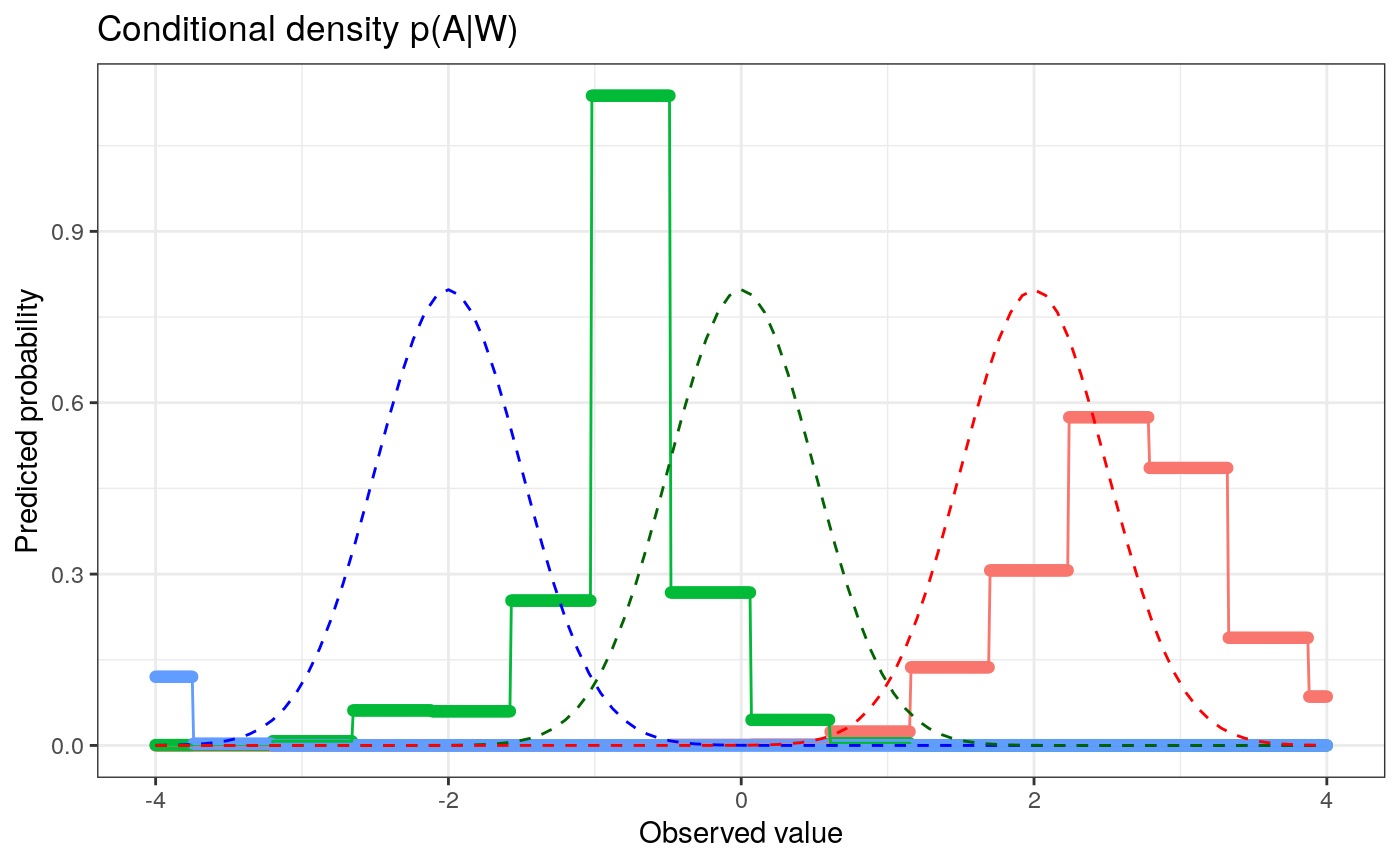
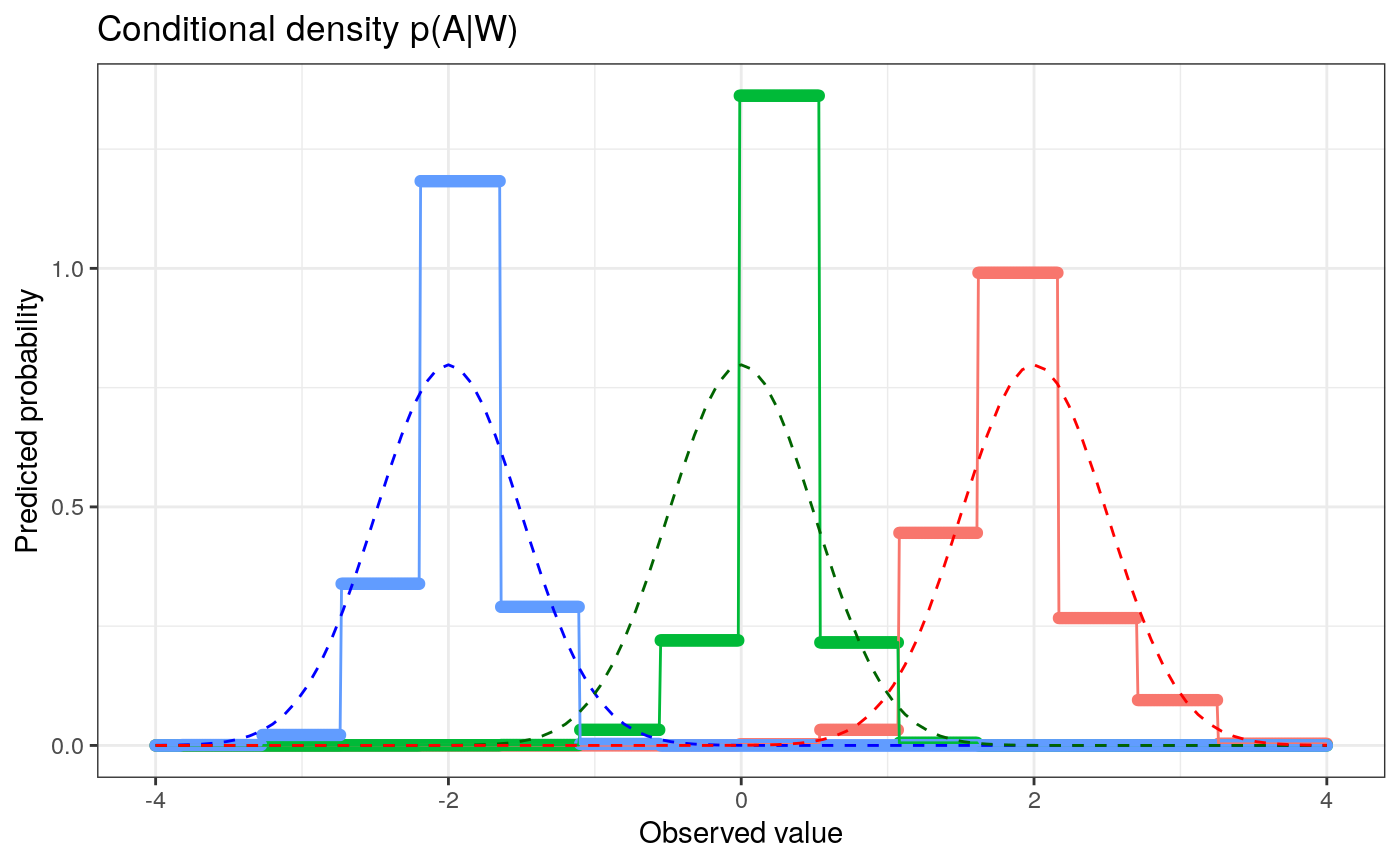
fit/predict lambda sequence; update site

diff --git a/README.html b/README.html
@@ -603,7 +603,7 @@ body {
 <!-- README.md is generated from README.Rmd. Please edit that file -->
 
 <h1 id="rhaldensify">R/<code>haldensify</code></h1>
[2 lines of base64/hex data omitted]
 <blockquote>
 <p>Highly Adaptive Lasso Conditional Density Estimation</p>
 </blockquote>

diff --git a/docs/articles/intro_haldensify.html b/docs/articles/intro_haldensify.html
@@ -112,17 +112,17 @@
 </ol>
 <p>While our first modification is general and may be applied to the estimation strategy of <span class="citation">Díaz and van der Laan (2011)</span>, our latter contribution requires adjusting the penalization aspect of HAL regression models so as to respect the use of a loss function appropriate for density estimation on the hazard scale.</p>
 <p>To build an estimator of a conditional density, <span class="citation">Díaz and van der Laan (2011)</span> considered discretizing the observed <span class="math inline">\(a \in A\)</span> based on a number of bins <span class="math inline">\(T\)</span> and a binning procedure (e.g., including the same number of points in each bin or forcing bins to be of the same length). We note that the choice of the tuning parameter <span class="math inline">\(T\)</span> corresponds roughly to the choice of bandwidth in classical kernel density estimation; this will be made clear upon further examination of the proposed algorithm. The data <span class="math inline">\(\{A, W\}\)</span> are reformatted such that the hazard of an observed value <span class="math inline">\(a \in A\)</span> falling in a given bin may be evaluated via standard classification techniques. In fact, this proposal may be viewed as a re-formulation of the classification problem into a corresponding set of hazard regressions: <span class="math display">\[\begin{align*}
-   \prob (a \in [\alpha_{t-1}, \alpha_t) \mid W) =&amp; \prob (a \in [\alpha_{t-1},
-   \alpha_t) \mid A \geq \alpha_{t-1}, W) \times  \\ &amp; \prod_{j = 1}^{t -1}
-   \{1 - \prob (a \in [\alpha_{j-1}, \alpha_j) \mid A
-   \geq \alpha_{j-1}, W) \},
+   \mathbb{P} (a \in [\alpha_{t-1}, \alpha_t) \mid W) =&amp; \mathbb{P} (a \in
+   [\alpha_{t-1}, \alpha_t) \mid A \geq \alpha_{t-1}, W) \times  \\ &amp;
+   \prod_{j = 1}^{t -1} \{1 - \mathbb{P} (a \in [\alpha_{j-1}, \alpha_j)
+   \mid A \geq \alpha_{j-1}, W) \},
 \end{align*}\]</span> where the probability that a value of <span class="math inline">\(a \in A\)</span> falls in a bin <span class="math inline">\([\alpha_{t-1}, \alpha_t)\)</span> may be directly estimated from a standard classification model. The likelihood of this model may be re-expressed in terms of the likelihood of a binary variable in a data set expressed through a repeated measures structure. Specifically, this re-formatting procedure is carried out by creating a data set in which any given observation <span class="math inline">\(A_i\)</span> appears (repeatedly) for as many intervals <span class="math inline">\([\alpha_{t-1}, \alpha_t)\)</span> that there are prior to the interval to which the observed <span class="math inline">\(a\)</span> belongs. A new binary outcome variable, indicating <span class="math inline">\(A_i \in [\alpha_{t-1}, \alpha_t)\)</span>, is recorded as part of this new data structure. With the re-formatted data, a pooled hazard regression, spanning the support of <span class="math inline">\(A\)</span> is then executed. Finally, the conditional density estimator <span class="math display">\[\begin{equation*}
-   q_{n, \alpha}(a \mid W) = \frac{\prob(a \in [\alpha_{t-1}, \alpha_t)
+   q_{n, \alpha}(a \mid W) = \frac{\mathbb{P}(a \in [\alpha_{t-1}, \alpha_t)
       \mid W)}{(\alpha_t - \alpha_{t-1})},
 \end{equation*}\]</span> for <span class="math inline">\(\alpha_{t-1} \leq a \le \alpha_t\)</span>, may be constructed. As part of this procedure, the hazard estimates are mapped to density estimates through rescaling of the estimates by the bin size (<span class="math inline">\(\alpha_t - \alpha_{t-1}\)</span>).</p>
-<p>In its original proposal, a key element of this procedure was the use of any arbitrary classification procedure for estimating <span class="math inline">\(\prob(a \in [\alpha_{t-1}, \alpha_t) \mid W)\)</span>, facilitating the incorporation of flexible, data adaptive estimators. We alter this proposal in two ways,</p>
+<p>In its original proposal, a key element of this procedure was the use of any arbitrary classification procedure for estimating <span class="math inline">\(\mathbb{P}(a \in [\alpha_{t-1}, \alpha_t) \mid W)\)</span>, facilitating the incorporation of flexible, data adaptive estimators. We alter this proposal in two ways,</p>
 <ol style="list-style-type: decimal">
-<li>replacing the arbitrary estimator of <span class="math inline">\(\prob(a \in [\alpha_{t-1}, \alpha_t) \mid W)\)</span> with HAL regression, and</li>
+<li>replacing the arbitrary estimator of <span class="math inline">\(\mathbb{P}(a \in [\alpha_{t-1}, \alpha_t) \mid W)\)</span> with HAL regression, and</li>
 <li>accommodating the use of sample-level weights, making it possible for the resultant conditional density estimator to achieve a convergence rate with respect to a loss-based dissimilarity of <span class="math inline">\(n^{-1/3}\)</span> under only mild assumptions.</li>
 </ol>
 <p>Our procedure alters the HAL regression function to use a loss function tailored for estimation of the hazard, invoking <span class="math inline">\(\ell_1\)</span>-penalization in a manner consistent with this loss.</p>
@@ -138,7 +138,7 @@
 <p>Next, we’ll generate a simple simulated dataset. The function <code>make_example_data</code>, defined below, generates a baseline covariate <span class="math inline">\(W\)</span> and a continuous-valued exposure variable <span class="math inline">\(A\)</span>, whose mean is a function of <span class="math inline">\(W\)</span>.</p>
 <div class="sourceCode" id="cb2"><html><body><pre class="r"><span class="no">make_example_data</span> <span class="kw">&lt;-</span> <span class="kw">function</span>(<span class="no">n_obs</span>) {
   <span class="no">W</span> <span class="kw">&lt;-</span> <span class="fu"><a href="https://rdrr.io/r/stats/Uniform.html">runif</a></span>(<span class="no">n_obs</span>, -<span class="fl">4</span>, <span class="fl">4</span>)
-  <span class="no">A</span> <span class="kw">&lt;-</span> <span class="fu"><a href="https://rdrr.io/r/stats/Normal.html">rnorm</a></span>(<span class="no">n_obs</span>, <span class="kw">mean</span> <span class="kw">=</span> (<span class="fl">2</span> * <span class="no">W</span> - <span class="fl">1</span>), <span class="kw">sd</span> <span class="kw">=</span> <span class="fl">0.5</span>)
+  <span class="no">A</span> <span class="kw">&lt;-</span> <span class="fu"><a href="https://rdrr.io/r/stats/Normal.html">rnorm</a></span>(<span class="no">n_obs</span>, <span class="kw">mean</span> <span class="kw">=</span> <span class="no">W</span>, <span class="kw">sd</span> <span class="kw">=</span> <span class="fl">0.25</span>)
   <span class="no">dat</span> <span class="kw">&lt;-</span> <span class="fu"><a href="https://Rdatatable.gitlab.io/data.table/reference/as.data.table.html">as.data.table</a></span>(<span class="fu"><a href="https://rdrr.io/r/base/list.html">list</a></span>(<span class="kw">A</span> <span class="kw">=</span> <span class="no">A</span>, <span class="kw">W</span> <span class="kw">=</span> <span class="no">W</span>))
   <span class="fu"><a href="https://rdrr.io/r/base/function.html">return</a></span>(<span class="no">dat</span>)
 }</pre></body></html></div>
@@ -150,17 +150,17 @@
 <span class="co"># quick look at the data</span>
 <span class="fu"><a href="https://rdrr.io/r/utils/head.html">head</a></span>(<span class="no">example_data</span>)</pre></body></html></div>
 <pre><code>##             A           W
-## 1:  3.6127843  2.24687273
-## 2:  0.8594957  0.91025531
-## 3: -7.4886763 -2.98696024
-## 4: -1.3684434 -0.01204378
-## 5:  5.5512774  3.59166824
-## 6: -6.8264277 -3.02363838</code></pre>
-<p>Next, we’ll fit our pooled hazards conditional density estimator via the <code>haldensify</code> wrapper function. Based on underlying theory and simulation experiments, we recommend setting a large number of bins and using a binning strategy that accommodates creating a very large number of bins.</p>
+## 1:  2.3063922  2.24687273
+## 2:  0.9297479  0.91025531
+## 3: -3.2443382 -2.98696024
+## 4: -0.1842217 -0.01204378
+## 5:  3.2756387  3.59166824
+## 6: -2.9132139 -3.02363838</code></pre>
+<p>Next, we’ll fit our pooled hazards conditional density estimator via the <code>haldensify</code> wrapper function. Based on underlying theory and simulation experiments, we recommend setting a relatively large number of bins and using a binning strategy that accommodates creating such a large number of bins.</p>
 <div class="sourceCode" id="cb5"><html><body><pre class="r"><span class="no">density_hal</span> <span class="kw">&lt;-</span> <span class="fu"><a href="../reference/haldensify.html">haldensify</a></span>(
   <span class="kw">A</span> <span class="kw">=</span> <span class="no">example_data</span>$<span class="no">A</span>,
   <span class="kw">W</span> <span class="kw">=</span> <span class="no">example_data</span>$<span class="no">W</span>,
-  <span class="kw">n_bins</span> <span class="kw">=</span> <span class="fl">30</span>,
+  <span class="kw">n_bins</span> <span class="kw">=</span> <span class="fu"><a href="https://rdrr.io/r/base/c.html">c</a></span>(<span class="fl">5</span>, <span class="fl">15</span>),
   <span class="kw">grid_type</span> <span class="kw">=</span> <span class="st">"equal_range"</span>,
   <span class="kw">lambda_seq</span> <span class="kw">=</span> <span class="fu"><a href="https://rdrr.io/r/base/Log.html">exp</a></span>(<span class="fu"><a href="https://rdrr.io/r/base/seq.html">seq</a></span>(-<span class="fl">1</span>, -<span class="fl">10</span>, <span class="kw">length</span> <span class="kw">=</span> <span class="fl">100</span>))
 )</pre></body></html></div>
@@ -173,9 +173,9 @@
   <span class="fu"><a href="https://ggplot2.tidyverse.org/reference/geom_point.html">geom_point</a></span>() +
   <span class="fu"><a href="https://ggplot2.tidyverse.org/reference/geom_path.html">geom_line</a></span>() +
   <span class="fu"><a href="https://ggplot2.tidyverse.org/reference/ggtheme.html">theme_bw</a></span>() +
-  <span class="fu"><a href="https://ggplot2.tidyverse.org/reference/labs.html">xlab</a></span>(<span class="st">"Lambda"</span>) +
+  <span class="fu"><a href="https://ggplot2.tidyverse.org/reference/labs.html">xlab</a></span>(<span class="st">"Lambda (L1 regularization parameter)"</span>) +
   <span class="fu"><a href="https://ggplot2.tidyverse.org/reference/labs.html">ylab</a></span>(<span class="st">"Empirical Risk"</span>) +
-  <span class="fu"><a href="https://ggplot2.tidyverse.org/reference/labs.html">ggtitle</a></span>(<span class="st">"Empirical Risk of conditional density estimators"</span>)
+  <span class="fu"><a href="https://ggplot2.tidyverse.org/reference/labs.html">ggtitle</a></span>(<span class="st">"Empirical risk of HAL conditional density estimators"</span>)
 <span class="no">p_risk</span></pre></body></html></div>
 <p><img src="intro_haldensify_files/figure-html/plot_risk_haldensify-1.png" width="700"></p>
 <p>Finally, we can predict the conditional density over the grid of observed values <span class="math inline">\(A\)</span> across different elements of the support <span class="math inline">\(W\)</span>. We do this using the <code>predict</code> method of <code>haldensify</code> and plot the results below.</p>

diff --git a/docs/reference/predict.haldensify.html b/docs/reference/predict.haldensify.html
@@ -133,7 +133,7 @@
     </div>
 
     <pre class="usage"><span class='co'># S3 method for haldensify</span>
-<span class='fu'><a href='https://rdrr.io/r/stats/predict.html'>predict</a></span>(<span class='no'>object</span>, <span class='no'>...</span>, <span class='no'>new_A</span>, <span class='no'>new_W</span>)</pre>
+<span class='fu'><a href='https://rdrr.io/r/stats/predict.html'>predict</a></span>(<span class='no'>object</span>, <span class='no'>...</span>, <span class='no'>new_A</span>, <span class='no'>new_W</span>, <span class='kw'>cv_select</span> <span class='kw'>=</span> <span class='fl'>TRUE</span>)</pre>
 
     <h2 class="hasAnchor" id="arguments"><a class="anchor" href="#arguments"></a>Arguments</h2>
     <table class="ref-arguments">
@@ -159,6 +159,15 @@ which a conditional density estimate is to be generated.</p></td>
 values of baseline covariates (potential confounders) for the conditioning
 set of the observed values <code>A</code>.</p></td>
     </tr>
+    <tr>
+      <th>cv_select</th>
+      <td><p>A <code>logical</code> indicating whether to return the predicted
+density for the value of the regularization parameter selected by global
+cross-validation. The default is <code>TRUE</code>. When set to <code>FALSE</code>, a
+matrix of predicted densities is returned, with each column corresponding
+to a value of the regularization parameter less than or equal to the choice
+made by the global cross-validation selector.</p></td>
+    </tr>
     </table>
 
     <h2 class="hasAnchor" id="value"><a class="anchor" href="#value"></a>Value</h2>
@@ -176,7 +185,7 @@ set of the observed values <code>A</code>.</p></td>
 <span class='no'>n_train</span> <span class='kw'>&lt;-</span> <span class='fl'>50</span>
 <span class='no'>w</span> <span class='kw'>&lt;-</span> <span class='fu'><a href='https://rdrr.io/r/stats/Uniform.html'>runif</a></span>(<span class='no'>n_train</span>, -<span class='fl'>4</span>, <span class='fl'>4</span>)
 <span class='no'>a</span> <span class='kw'>&lt;-</span> <span class='fu'><a href='https://rdrr.io/r/stats/Normal.html'>rnorm</a></span>(<span class='no'>n_train</span>, <span class='no'>w</span>, <span class='fl'>0.5</span>)
-<span class='co'># learn relationship A|W using HAL-based density estimation procedure</span>
+<span class='co'># HAL-based density estimator of A|W</span>
 <span class='no'>mod_haldensify</span> <span class='kw'>&lt;-</span> <span class='fu'><a href='haldensify.html'>haldensify</a></span>(
   <span class='kw'>A</span> <span class='kw'>=</span> <span class='no'>a</span>, <span class='kw'>W</span> <span class='kw'>=</span> <span class='no'>w</span>, <span class='kw'>n_bins</span> <span class='kw'>=</span> <span class='fl'>3</span>,
   <span class='kw'>lambda_seq</span> <span class='kw'>=</span> <span class='fu'><a href='https://rdrr.io/r/base/Log.html'>exp</a></span>(<span class='fu'><a href='https://rdrr.io/r/base/seq.html'>seq</a></span>(-<span class='fl'>1</span>, -<span class='fl'>10</span>, <span class='kw'>length</span> <span class='kw'>=</span> <span class='fl'>50</span>))
